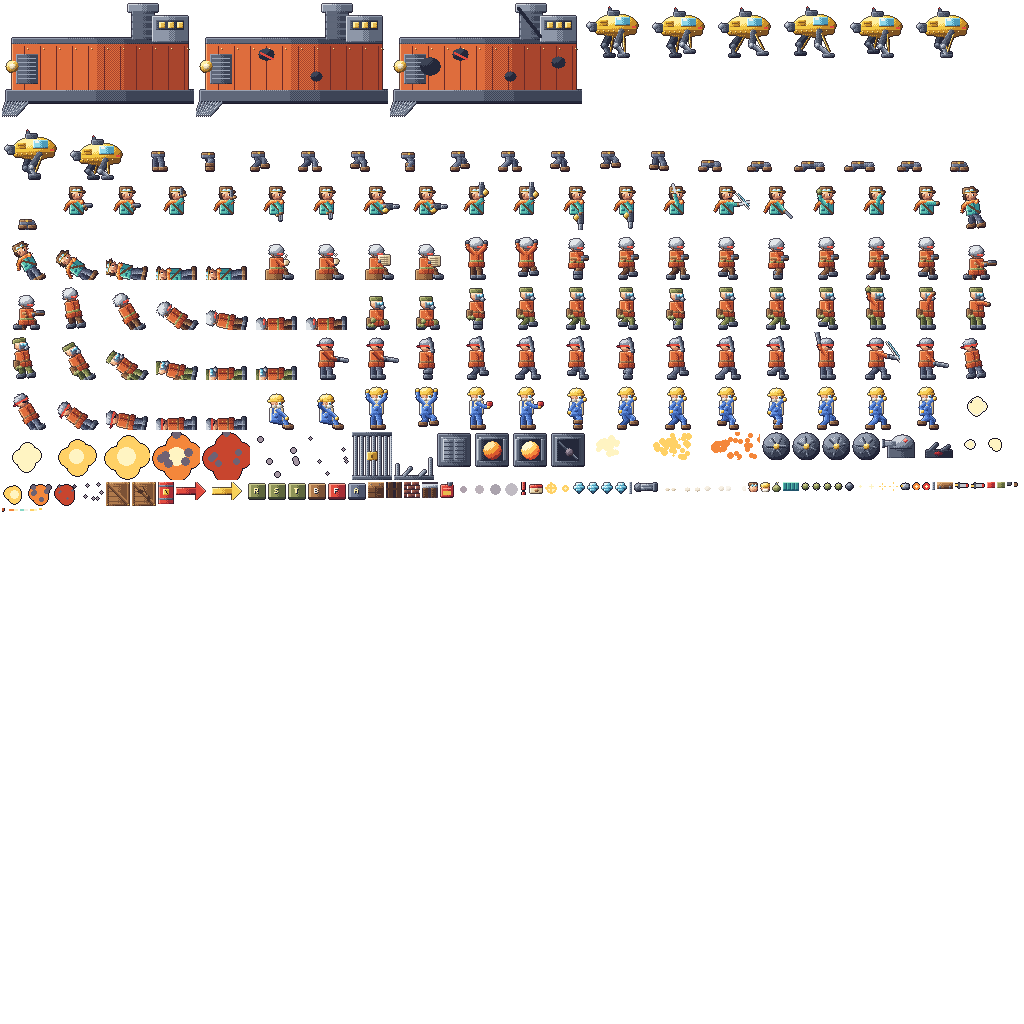
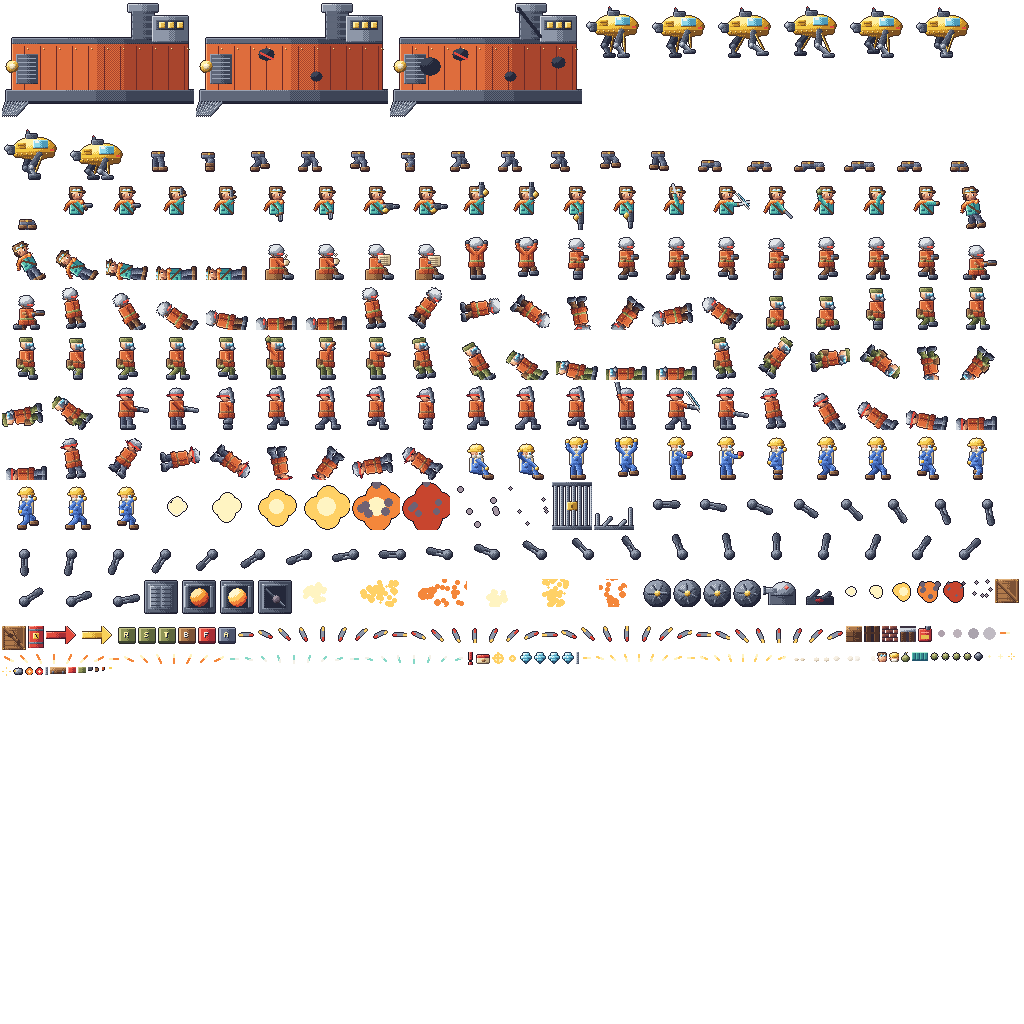
fix: remove runtime scaling and rotation from pixel art

Changed region(s): [[0.0, 0.2812, 1.0, 0.6562]]

diff --git a/src/game/systems/ProjectileSystem.ts b/src/game/systems/ProjectileSystem.ts
@@ -31,12 +31,12 @@ interface Spec {
 }
 
 const SPECS: Record<ProjectileKind, Spec> = {
-  bullet: { frame: "bullet_p_0", faction: "player", gravity: 0, radius: 0, bounces: 0, accel: 0, maxSpeed: 0, w: 6, h: 4, kind: "bullet", big: false, orient: true, life: 1.4 },
-  heavy: { frame: "bullet_r_0", faction: "player", gravity: 0, radius: 0, bounces: 0, accel: 0, maxSpeed: 0, w: 8, h: 4, kind: "bullet", big: false, orient: true, life: 1.4 },
-  vulcan: { frame: "bullet_v_0", faction: "player", gravity: 0, radius: 0, bounces: 0, accel: 0, maxSpeed: 0, w: 8, h: 4, kind: "bullet", big: false, orient: true, life: 1.4 },
-  rocket: { frame: "rocket_0", anim: "rocket", faction: "player", gravity: 0, radius: 26, bounces: 0, accel: 600, maxSpeed: 380, w: 10, h: 6, kind: "blast", big: false, orient: true, life: 2 },
+  bullet: { frame: "bullet_p", faction: "player", gravity: 0, radius: 0, bounces: 0, accel: 0, maxSpeed: 0, w: 6, h: 4, kind: "bullet", big: false, orient: true, life: 1.4 },
+  heavy: { frame: "bullet_r", faction: "player", gravity: 0, radius: 0, bounces: 0, accel: 0, maxSpeed: 0, w: 8, h: 4, kind: "bullet", big: false, orient: true, life: 1.4 },
+  vulcan: { frame: "bullet_v", faction: "player", gravity: 0, radius: 0, bounces: 0, accel: 0, maxSpeed: 0, w: 8, h: 4, kind: "bullet", big: false, orient: true, life: 1.4 },
+  rocket: { frame: "rocket", faction: "player", gravity: 0, radius: 26, bounces: 0, accel: 600, maxSpeed: 380, w: 10, h: 6, kind: "blast", big: false, orient: true, life: 2 },
   bomb: { frame: "bomb_0", anim: "bomb", faction: "player", gravity: PHYSICS.gravity, radius: BOMB.radius, bounces: 1, accel: 0, maxSpeed: 0, w: 7, h: 7, kind: "blast", big: true, orient: false, life: 4 },
-  shell: { frame: "shell_0", faction: "player", gravity: PHYSICS.gravity * 0.5, radius: 32, bounces: 0, accel: 0, maxSpeed: 0, w: 8, h: 6, kind: "blast", big: true, orient: true, life: 3 },
+  shell: { frame: "shell_0", faction: "player", gravity: PHYSICS.gravity * 0.5, radius: 32, bounces: 0, accel: 0, maxSpeed: 0, w: 8, h: 6, kind: "blast", big: true, orient: false, life: 3 },
   enemyBullet: { frame: "bullet_e_0", anim: "bullet_e", faction: "enemy", gravity: 0, radius: 0, bounces: 0, accel: 0, maxSpeed: 0, w: 5, h: 5, kind: "bullet", big: false, orient: false, life: 5 },
   enemyBomb: { frame: "bomb_0", anim: "bomb", faction: "enemy", gravity: PHYSICS.gravity, radius: 22, bounces: 0, accel: 0, maxSpeed: 0, w: 7, h: 7, kind: "blast", big: false, orient: false, life: 5 },
   mortar: { frame: "mortar_0", faction: "enemy", gravity: PHYSICS.gravity * 0.6, radius: 24, bounces: 0, accel: 0, maxSpeed: 0, w: 8, h: 8, kind: "blast", big: true, orient: false, life: 6 },
@@ -84,7 +84,9 @@ export class ProjectileSystem {
     p.damage = damage;
     p.life = s.life;
     p.bounces = s.bounces;
-    p.setActive(true).setVisible(true).setPosition(x, y).setFrame(s.frame).setRotation(s.orient ? Math.atan2(vy, vx) : 0).setFlipX(false);
+    p.setActive(true).setVisible(true).setPosition(x, y).setRotation(0).setFlipX(false);
+    if (s.orient) this.orient(p, s);
+    else p.setFrame(s.frame);
     if (s.anim) p.play(s.anim);
     return p;
   }
@@ -118,7 +120,7 @@ export class ProjectileSystem {
     p.x += p.vx * dt;
     p.y += p.vy * dt;
     p.life -= dt;
-    if (s.orient) p.setRotation(Math.atan2(p.vy, p.vx));
+    if (s.orient) this.orient(p, s);
     if (p.life <= 0 || p.y > VIEW_H + 24 || !this.camera.visible(p.x, 48)) {
       this.pool.release(p);
       return;
@@ -155,6 +157,14 @@ export class ProjectileSystem {
       this.fx.spark(p.x, p.y, -Math.sign(p.vx));
       this.pool.release(p);
     }
+  }
+
+  private orient(p: Projectile, s: Spec): void {
+    const steps = 16;
+    const a = Math.atan2(p.vy, p.vx);
+    const i = ((Math.round((a / (Math.PI * 2)) * steps) % steps) + steps) % steps;
+    const base = p.type2 === "rocket" ? (Math.floor(p.life * 20) % 2) * steps : 0;
+    p.setFrame(`${s.frame}_${base + i}`);
   }
 
   private detonate(p: Projectile): void {

diff --git a/src/game/entities/vehicles/Mule.ts b/src/game/entities/vehicles/Mule.ts
@@ -21,13 +21,14 @@ export class Mule implements Target {
   private facing: 1 | -1 = 1;
   private vulcanTimer = 0;
   private reenter = 0;
+  private boardArmed = true;
   private onGround = false;
 
   constructor(private readonly ctx: GameContext, private readonly player: Player, x: number, y: number) {
     const scene = ctx.scene;
     this.sprite = scene.physics.add.sprite(x, y, TEX.atlas, "mule_idle_0").setOrigin(0.5, 1).setDepth(DEPTH.vehicle);
     (this.sprite.body as Physics.Arcade.Body).setSize(30, 34).setOffset(17, 22);
-    this.gun = scene.add.image(x, y, TEX.atlas, "mule_gun_0").setOrigin(4 / 24, 0.5).setDepth(DEPTH.vehicle + 1);
+    this.gun = scene.add.image(x, y, TEX.atlas, "mule_gun_0").setOrigin(0.5, 0.5).setDepth(DEPTH.vehicle + 1);
     scene.physics.add.collider(this.sprite, ctx.terrain.solids);
     scene.physics.add.collider(this.sprite, ctx.terrain.platforms);
     ctx.combat.add(this);
@@ -128,7 +129,12 @@ export class Mule implements Target {
     if (!this.player.onFoot || this.reenter > 0 || this.ctx.state.piloting) return;
     this.box.setTo(this.sprite.x - 14, this.sprite.y - 44, 28, 44);
     const p = this.player.bounds(new Geom.Rectangle());
-    if (Geom.Intersects.RectangleToRectangle(p, this.box)) {
+    const touching = Geom.Intersects.RectangleToRectangle(p, this.box);
+    if (!this.boardArmed) {
+      if (!touching) this.boardArmed = true;
+      return;
+    }
+    if (touching) {
       this.ctx.state.muleArmour = Math.max(1, this.ctx.state.muleArmour || MULE.armour);
       this.fsm.change("piloted");
     }
@@ -178,7 +184,7 @@ export class Mule implements Target {
       const my = this.gun.y + Math.sin(this.gunAngle) * 18;
       const j = this.ctx.rng.range(-0.03, 0.03);
       this.ctx.projectiles.fire("vulcan", mx, my, Math.cos(this.gunAngle + j) * MULE.vulcanSpeed, Math.sin(this.gunAngle + j) * MULE.vulcanSpeed, 1);
-      this.ctx.fx.play("flash", mx, my, { scale: 0.8 });
+      this.ctx.fx.play("flash", mx, my);
       this.ctx.events.emit("sound", "vulcan");
     }
     if (inp.pressed(Action.Bomb) && this.ctx.state.muleShells > 0) {
@@ -196,7 +202,9 @@ export class Mule implements Target {
     const px = pivot.x || 29;
     const py = pivot.y || 11;
     const ox = (px - 32) * (this.sprite.flipX ? -1 : 1);
-    this.gun.setPosition(this.sprite.x + ox, this.sprite.y - 56 + py).setRotation(this.gunAngle).setVisible(this.sprite.visible);
+    const steps = 32;
+    const i = ((Math.round((this.gunAngle / (Math.PI * 2)) * steps) % steps) + steps) % steps;
+    this.gun.setFrame(`mule_gun_${i}`).setPosition(Math.round(this.sprite.x + ox), Math.round(this.sprite.y - 56 + py)).setVisible(this.sprite.visible);
   }
 
   forceEject(): void {
@@ -208,6 +216,7 @@ export class Mule implements Target {
   private ejectPilot(): void {
     this.ctx.state.piloting = false;
     this.reenter = MULE.reenterDelay;
+    this.boardArmed = false;
     this.player.exitVehicle(this.sprite.x, this.sprite.y - 40);
   }
 

diff --git a/src/game/systems/EffectsSystem.ts b/src/game/systems/EffectsSystem.ts
@@ -45,11 +45,11 @@ export class EffectsSystem {
     );
   }
 
-  play(anim: string, x: number, y: number, opts: { depth?: number; flipX?: boolean; rotation?: number; scale?: number; originY?: number } = {}): void {
+  play(anim: string, x: number, y: number, opts: { depth?: number; flipX?: boolean; flipY?: boolean; originY?: number } = {}): void {
     const s = this.shots.acquire();
     if (!s) return;
-    s.setActive(true).setVisible(true).setPosition(x, y).setFlipX(!!opts.flipX).setRotation(opts.rotation ?? 0)
-      .setScale(opts.scale ?? 1).setDepth(opts.depth ?? DEPTH.fx).setOrigin(0.5, opts.originY ?? 0.5).setAlpha(1);
+    s.setActive(true).setVisible(true).setPosition(Math.round(x), Math.round(y)).setFlipX(!!opts.flipX).setFlipY(!!opts.flipY).setRotation(0)
+      .setScale(1).setDepth(opts.depth ?? DEPTH.fx).setOrigin(0.5, opts.originY ?? 0.5).setAlpha(1);
     s.play(anim);
   }
 
@@ -57,7 +57,7 @@ export class EffectsSystem {
     const m = this.fxMeta[key];
     const s = this.shots.acquire();
     if (!m || !s) return;
-    s.setActive(true).setVisible(true).setPosition(Math.round(x), Math.round(y)).setFlipX(flipX).setRotation(0).setScale(1)
+    s.setActive(true).setVisible(true).setPosition(Math.round(x), Math.round(y)).setFlipX(flipX).setFlipY(false).setRotation(0).setScale(1)
       .setDepth(depth).setAlpha(1);
     s.play(key);
     s.setOrigin(flipX ? 1 - m.originX : m.originX, m.originY);
@@ -86,7 +86,7 @@ export class EffectsSystem {
     for (let i = 0; i < count; i++) {
       const p = this.bits.acquire();
       if (!p) return;
-      p.setActive(true).setVisible(true).setPosition(x, y).setFrame(this.rng.pick(frames)).setAlpha(1).setRotation(0);
+      p.setActive(true).setVisible(true).setPosition(x, y).setFrame(this.rng.pick(frames)).setAlpha(1).setRotation(0).setFlipX(this.rng.chance(0.5));
       p.vx = this.rng.range(-110, 110);
       p.vy = this.rng.range(-260, -120);
       p.life = this.rng.range(0.8, 1.4);
@@ -124,7 +124,7 @@ export class EffectsSystem {
       p.vy += 700 * dt;
       p.x += p.vx * dt;
       p.y += p.vy * dt;
-      p.rotation += p.spin * dt;
+      if (p.spin && Math.floor(p.life * 12) !== Math.floor((p.life + dt) * 12)) p.flipX = !p.flipX;
       p.life -= dt;
       const floor = this.terrain.surfaceCrossed(p.x, prevY, p.y);
       if (floor !== null && p.vy > 0) {

diff --git a/src/game/scenes/BootScene.ts b/src/game/scenes/BootScene.ts
@@ -1,10 +1,12 @@
 import { GameObjects, Scene } from "phaser";
-import { DATA, FONT, TEX } from "../assets/keys";
+import { DATA, FONT, FONT_BIG, TEX } from "../assets/keys";
 import { registerAnimations } from "../assets/Animations";
 
 interface FontMeta {
   cellW: number;
   cellH: number;
+  bigW: number;
+  bigH: number;
   chars: string;
 }
 
@@ -21,6 +23,7 @@ export class BootScene extends Scene {
     this.load.json(DATA.fxMeta, "fx-meta.json");
     this.load.json(DATA.fontMeta, "font.json");
     this.load.image(TEX.font, "font.png");
+    this.load.image(TEX.fontBig, "font_big.png");
     this.load.image(TEX.sky, "bg_sky.png");
     this.load.image(TEX.far, "bg_far.png");
     this.load.image(TEX.mid, "bg_mid.png");
@@ -30,19 +33,13 @@ export class BootScene extends Scene {
 
   create(): void {
     const meta = this.cache.json.get(DATA.fontMeta) as FontMeta;
-    const entry = GameObjects.RetroFont.Parse(this, {
-      image: TEX.font,
-      width: meta.cellW,
-      height: meta.cellH,
-      chars: meta.chars,
-      charsPerRow: meta.chars.length,
-      "offset.x": 0,
-      "offset.y": 0,
-      "spacing.x": 0,
-      "spacing.y": 0,
-      lineSpacing: 2,
-    });
-    this.cache.bitmapFont.add(FONT, entry);
+    const parse = (image: string, width: number, height: number) =>
+      GameObjects.RetroFont.Parse(this, {
+        image, width, height, chars: meta.chars, charsPerRow: meta.chars.length,
+        "offset.x": 0, "offset.y": 0, "spacing.x": 0, "spacing.y": 0, lineSpacing: 2,
+      });
+    this.cache.bitmapFont.add(FONT, parse(TEX.font, meta.cellW, meta.cellH));
+    this.cache.bitmapFont.add(FONT_BIG, parse(TEX.fontBig, meta.bigW, meta.bigH));
     registerAnimations(this);
     this.scene.start(new URLSearchParams(location.search).has("skip") ? "mission" : "title");
   }

diff --git a/src/game/entities/enemies/Enemy.ts b/src/game/entities/enemies/Enemy.ts
@@ -38,6 +38,7 @@ export class Enemy implements Target {
   active = false;
   fired = false;
   private blastSpin = 0;
+  private spinAngle = 0;
 
   constructor(readonly ctx: GameContext, private readonly behaviours: Record<EnemyType, EnemyBehaviour>) {
     const scene = ctx.scene;
@@ -71,7 +72,11 @@ export class Enemy implements Target {
       },
       dying: {
         update: (e, dt, t) => {
-          if (e.blastSpin) e.sprite.rotation += e.blastSpin * dt;
+          if (e.blastSpin) {
+            e.spinAngle += e.blastSpin * dt;
+            const k = ((Math.round(e.spinAngle / (Math.PI / 4)) % 8) + 8) % 8;
+            e.sprite.setFrame(`${e.def.type}_tumble_${k}`);
+          }
           if (t > 1.2) e.sprite.setAlpha(Math.max(0, 1 - (t - 1.2) * 3));
           return t > 1.55 ? "gone" : undefined;
         },
@@ -147,7 +152,8 @@ export class Enemy implements Target {
     this.ctx.events.emit("sound", "enemyDie");
     if (hit.kind === "blast") {
       const away = Math.sign(this.x - hit.x) || 1;
-      this.sprite.setFrame(`${this.def.type}_die_0`);
+      this.spinAngle = 0;
+      this.sprite.setFrame(`${this.def.type}_tumble_0`);
       this.body.setVelocity(away * 90, -230);
       this.blastSpin = away * 9;
       this.body.checkCollision.none = true;

diff --git a/src/game/scenes/HudScene.ts b/src/game/scenes/HudScene.ts
@@ -34,13 +34,11 @@ export class HudScene extends Scene {
     this.arms = new RetroText(this, 152, 3, "");
     this.add.image(124, 18, TEX.atlas, "bombicon_0").setScrollFactor(0);
     this.bombs = new RetroText(this, 132, 14, "10");
-    this.timer = new RetroText(this, VIEW_W / 2 + 30, 6, "60", [0.5, 0]);
-    this.timer.setScale(2);
+    this.timer = new RetroText(this, VIEW_W / 2 + 30, 4, "60", [0.5, 0], true);
     this.add.image(VIEW_W - 44, 9, TEX.atlas, "tinkericon_0").setScrollFactor(0);
     this.tinkers = new RetroText(this, VIEW_W - 36, 5, "X0");
     this.armour = [0, 1, 2].map((i) => this.add.image(VIEW_W - 44 + i * 10, 21, TEX.atlas, "armour_0").setScrollFactor(0).setVisible(false));
-    this.banner = new RetroText(this, VIEW_W / 2, 84, "", [0.5, 0.5]);
-    this.banner.setScale(2);
+    this.banner = new RetroText(this, VIEW_W / 2, 84, "", [0.5, 0.5], true);
     this.sub = new RetroText(this, VIEW_W / 2, 106, "", [0.5, 0.5]);
     this.center = new RetroText(this, VIEW_W / 2, VIEW_H / 2 + 34, "", [0.5, 0.5]);
     this.go = this.add.sprite(VIEW_W - 46, 70, TEX.atlas, "go_0").setScrollFactor(0).setVisible(false);

diff --git a/src/game/ui/RetroText.ts b/src/game/ui/RetroText.ts
@@ -1,12 +1,12 @@
 import type { GameObjects, Scene } from "phaser";
-import { FONT } from "../assets/keys";
+import { FONT, FONT_BIG } from "../assets/keys";
 
 export class RetroText {
   readonly view: GameObjects.BitmapText;
   private last = "";
 
-  constructor(scene: Scene, private readonly x: number, private readonly y: number, text = "", private readonly origin: [number, number] = [0, 0]) {
-    this.view = scene.add.bitmapText(x, y, FONT, text).setOrigin(0, 0).setScrollFactor(0);
+  constructor(scene: Scene, private readonly x: number, private readonly y: number, text = "", private readonly origin: [number, number] = [0, 0], big = false) {
+    this.view = scene.add.bitmapText(x, y, big ? FONT_BIG : FONT, text).setOrigin(0, 0).setScrollFactor(0);
     this.last = text;
     this.place();
   }
@@ -17,12 +17,6 @@ export class RetroText {
       this.view.setText(text);
       this.place();
     }
-    return this;
-  }
-
-  setScale(s: number): this {
-    this.view.setScale(s);
-    this.place();
     return this;
   }
 

diff --git a/tests/e2e/mission.spec.ts b/tests/e2e/mission.spec.ts
@@ -140,3 +140,19 @@ test("the Iron Warden can be beaten with the pistol by jump shooting", async ({ 
   await page.keyboard.up("ArrowRight");
   await page.waitForFunction("window.__mv.snapshot().phase === 'complete'", null, { timeout: 20_000 });
 });
+
+test("leaving the Mule does not instantly board it again", async ({ page }) => {
+  await startMission(page);
+  await run(page, "mv.shield(120); mv.warp(1560);");
+  await page.waitForTimeout(400);
+  await hold(page, "ArrowRight", 700);
+  expect((await snap(page)).piloting).toBe(true);
+  await page.keyboard.down("ArrowUp");
+  await tap(page, "KeyK", 60);
+  await page.keyboard.up("ArrowUp");
+  await page.waitForTimeout(1500);
+  expect((await snap(page)).piloting).toBe(false);
+  await hold(page, "ArrowLeft", 600);
+  await hold(page, "ArrowRight", 700);
+  expect((await snap(page)).piloting).toBe(true);
+});

diff --git a/src/game/entities/Player.ts b/src/game/entities/Player.ts
@@ -273,8 +273,8 @@ export class Player implements Target, PlayerLocator {
       this.ctx.events.emit("sound", "rivet");
     } else if (w.mode === "blast") {
       const aim = this.aimKey();
-      const rot = aim === "up" ? -Math.PI / 2 : aim === "down" ? Math.PI / 2 : 0;
-      fx.play("blast", m.x, m.y, { flipX: this.facing < 0 && aim === "fwd", rotation: this.facing < 0 && aim !== "fwd" ? -rot : rot, originY: 0.5 });
+      if (aim === "fwd") fx.play("blast", m.x, m.y, { flipX: this.facing < 0, originY: 0.5 });
+      else fx.play("blast_up", m.x, m.y, { originY: aim === "up" ? 1 : 0, flipY: aim === "down" });
       const r = this.knifeRect;
       if (aim === "fwd") r.setTo(this.facing > 0 ? m.x : m.x - w.range, m.y - 22, w.range, 44);
       else r.setTo(m.x - 22, aim === "up" ? m.y - w.range : m.y, 44, w.range);

diff --git a/src/game/assets/Animations.ts b/src/game/assets/Animations.ts
@@ -40,10 +40,10 @@ const SPECS: AnimSpec[] = [
   { key: "spark", prefix: "spark_", frames: 4, rate: 30 },
   { key: "smoke", prefix: "smoke_", frames: 4, rate: 8 },
   { key: "blast", prefix: "blast_", frames: 3, rate: 24 },
+  { key: "blast_up", prefix: "blast_up_", frames: 3, rate: 24 },
   { key: "flash", prefix: "flash_", frames: 2, rate: 30 },
   { key: "dust", prefix: "dust_", frames: 4, rate: 14 },
   { key: "bullet_e", prefix: "bullet_e_", frames: 2, rate: 12, repeat: -1 },
-  { key: "rocket", prefix: "rocket_", frames: 2, rate: 20, repeat: -1 },
   { key: "bomb", prefix: "bomb_", frames: 4, rate: 16, repeat: -1 },
   { key: "gem", prefix: "gem_", frames: 4, rate: 8, repeat: -1 },
   { key: "go", prefix: "go_", frames: 2, rate: 4, repeat: -1 },

diff --git a/src/game/scenes/TitleScene.ts b/src/game/scenes/TitleScene.ts
@@ -19,7 +19,7 @@ export class TitleScene extends Scene {
     this.add.tileSprite(0, 0, VIEW_W, VIEW_H, TEX.far).setOrigin(0);
     this.add.tileSprite(0, 0, VIEW_W, VIEW_H, TEX.mid).setOrigin(0).setTilePosition(120, 0);
     this.add.rectangle(0, 0, VIEW_W, VIEW_H, 0x1b1626, 0.35).setOrigin(0);
-    new RetroText(this, VIEW_W / 2, 52, "METALVLUG", [0.5, 0.5]).setScale(3);
+    new RetroText(this, VIEW_W / 2, 52, "METALVLUG", [0.5, 0.5], true);
     new RetroText(this, VIEW_W / 2, 82, "MISSION 1 LOWTIDE DOCKS", [0.5, 0.5]);
     this.add.sprite(VIEW_W / 2 - 60, 160, TEX.atlas, "pip_legs_stand_0").setOrigin(0.5, 1);
     this.add.sprite(VIEW_W / 2 - 60, 160, TEX.atlas, "pip_heavy_fwd_0").setOrigin(0.5, 1);

diff --git a/src/game/entities/enemies/behaviours/GruntBehaviour.ts b/src/game/entities/enemies/behaviours/GruntBehaviour.ts
@@ -27,7 +27,7 @@ export class GruntBehaviour implements EnemyBehaviour {
       let ang = Math.atan2(p.centerY - my, (p.x - mx) * e.facing);
       ang = Math.max(-G.maxAngle, Math.min(G.maxAngle, ang));
       e.ctx.projectiles.fire("enemyBullet", mx, my, Math.cos(ang) * e.facing * G.bulletSpeed, Math.sin(ang) * G.bulletSpeed, 1);
-      e.ctx.fx.play("flash", mx, my, { scale: 0.7 });
+      e.ctx.fx.play("flash", mx, my);
       e.ctx.events.emit("sound", "enemyShot");
     }
     if (t > G.aimTime + 0.35) {
